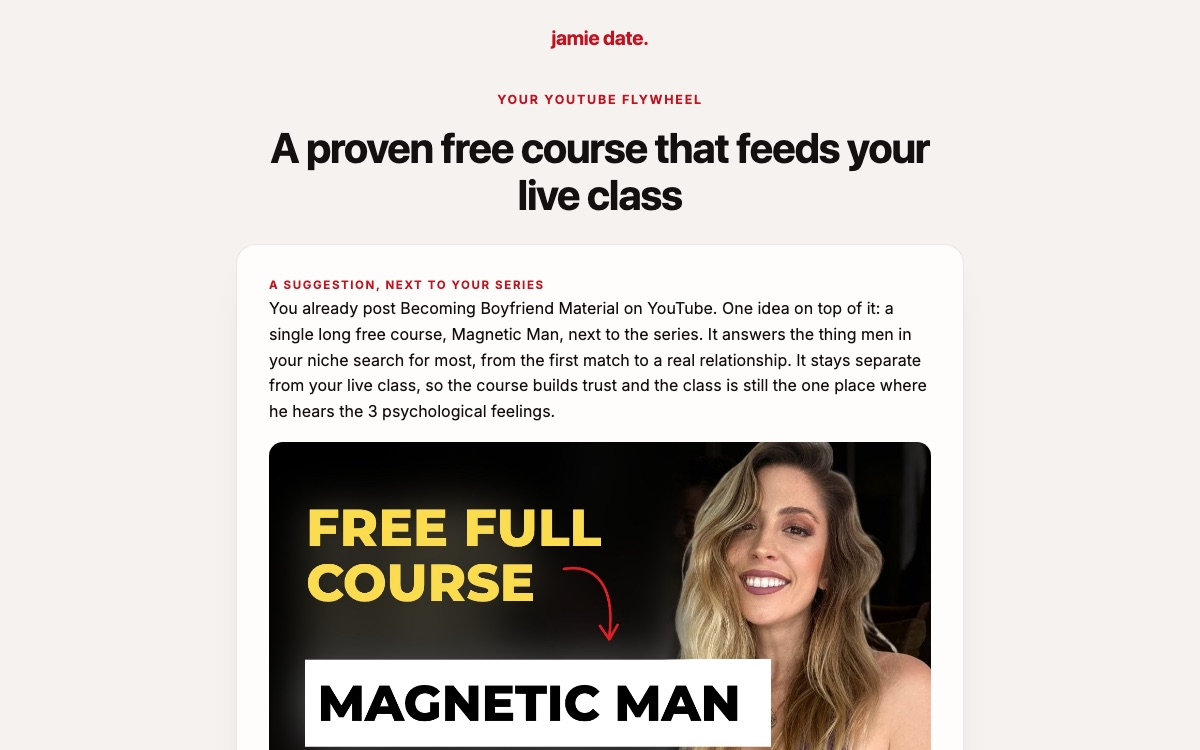
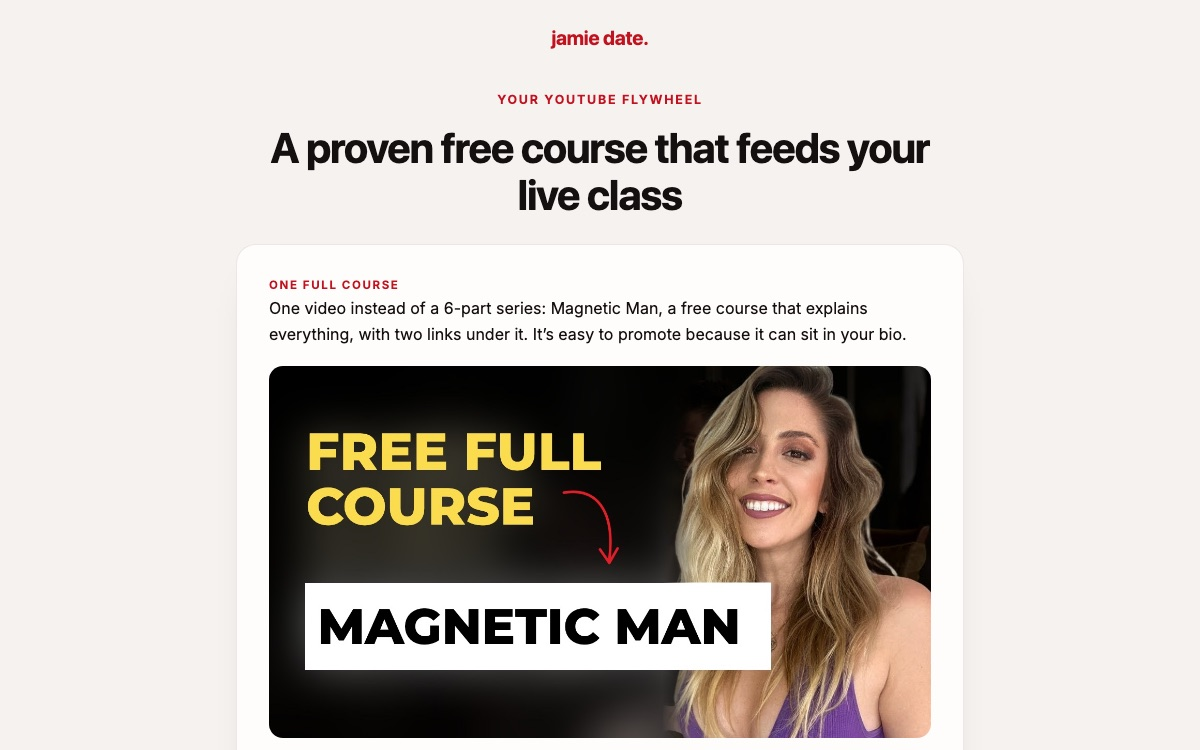
Shorter hub notes, credibility bio line, two-link flywheel

Changed region(s): [[0.2158, 0.368, 0.8017, 1.0]]

diff --git a/index.html b/index.html
@@ -132,51 +132,43 @@
       <div class="container">
         <div class="bridge__head">
           <p class="eyebrow reveal">Before the deliverables</p>
-          <h2 class="section__title bridge__title reveal">Five overlooked things I noticed<br />before I built anything.</h2>
+          <h2 class="section__title bridge__title reveal">Four things I noticed<br />before I built anything.</h2>
         </div>
 
         <article class="beat reveal">
           <div class="beat__num"><span class="beat__idx">01</span><span class="beat__rule"></span></div>
           <div class="beat__copy">
-            <p class="beat__kicker">Your two platforms</p>
-            <h3 class="beat__title">Most of your 174K followers don&rsquo;t know you&rsquo;re on YouTube.</h3>
-            <p class="beat__text">It&rsquo;s the other way around for you. You&rsquo;re big on Instagram, but nothing on your profile points to your YouTube. So I&rsquo;d send your Instagram there: the free course in your bio and on your link page opens on YouTube, and a card on your link page says &ldquo;Join 4,400+ men in my YouTube community&rdquo;. A mention in your Reels helps too. Every man who watches you for 30 minutes on YouTube is far warmer than one who saw a 30-second Reel.</p>
-          </div><div class="beat__aside"><figure class="shot shot--wide"><img src="assets/img/her-profile.jpg" alt="Jamie&rsquo;s Instagram bio" loading="lazy" /><figcaption>Your link in bio today</figcaption></figure></div>
+            <p class="beat__kicker">YouTube</p>
+            <h3 class="beat__title">Most of your followers don&rsquo;t know you&rsquo;re on YouTube.</h3>
+            <p class="beat__text">That&rsquo;s where men watch you for 30 minutes and start to trust you. So I&rsquo;d make sure every follower knows you&rsquo;re there.</p>
+          </div><div class="beat__aside"><figure class="shot shot--wide"><img src="assets/img/her-profile.jpg" alt="Jamie&rsquo;s Instagram bio" loading="lazy" /><figcaption>Your bio today</figcaption></figure></div>
         </article>
         <article class="beat reveal">
           <div class="beat__num"><span class="beat__idx">02</span><span class="beat__rule"></span></div>
           <div class="beat__copy">
-            <p class="beat__kicker">Your funnel</p>
-            <h3 class="beat__title">Webinars are the best-converting funnel right now.</h3>
-            <p class="beat__text">A free live class sells to hundreds of men at once, and walks a good man from &ldquo;why does she keep friend-zoning me?&rdquo; to &ldquo;I need Jamie in my corner&rdquo; before he ever books. Relationship Renaissance 90 is invite-only, so one class a week feeding it could add an <span class="hl">extra $100k a month</span> to your business.</p>
-          </div>
+            <p class="beat__kicker">One full course</p>
+            <h3 class="beat__title">One video instead of a 6-part series.</h3>
+            <p class="beat__text">One free course that explains everything, with two links under it. It&rsquo;s much easier to promote, because it can sit in your bio.</p>
+          </div><div class="beat__aside"><figure class="shot shot--wide"><img src="assets/img/bbm-thumb.jpg" alt="Becoming Boyfriend Material thumbnail" loading="lazy" /><figcaption>Your channel today</figcaption></figure></div>
         </article>
         <article class="beat reveal">
           <div class="beat__num"><span class="beat__idx">03</span><span class="beat__rule"></span></div>
           <div class="beat__copy">
-            <p class="beat__kicker">Your links</p>
-            <h3 class="beat__title">The same two links under each one of your videos.</h3>
-            <p class="beat__text">Each of the six Becoming Boyfriend Material videos ends with one link, your Linktree, so there&rsquo;s no call to book and nothing free. I&rsquo;d put the same two links under every video. One invites the men who aren&rsquo;t ready yet to your free live class: the class and your emails then nurture them, and over time they trust you enough to book. The other is a direct link to book a call, for the men who are ready right now.</p>
-          </div><div class="beat__aside"><figure class="shot shot--wide"><img src="assets/img/bbm-thumb.jpg" alt="Becoming Boyfriend Material thumbnail" loading="lazy" /><figcaption>Your channel today</figcaption></figure></div>
+            <p class="beat__kicker">Two links</p>
+            <h3 class="beat__title">One link for men who aren&rsquo;t ready, one for men who are.</h3>
+            <p class="beat__text">A free guide for the first, so your emails nurture them in the background. A direct link to buy for the men who are ready right now.</p>
+          </div>
         </article>
         <article class="beat reveal">
           <div class="beat__num"><span class="beat__idx">04</span><span class="beat__rule"></span></div>
           <div class="beat__copy">
-            <p class="beat__kicker">Your link in bio</p>
-            <h3 class="beat__title">Six links, but never one clear next step.</h3>
-            <p class="beat__text">Your Linktree opens with a strong line, &ldquo;Stop going to bed alone&rdquo;, and then gives a new follower six choices: a retreat, coaching, a free guide, a profile audit, courses and your book. A man who just found you doesn&rsquo;t know which one is for him, so most tap nothing.</p>
-          </div>
-        </article>
-        <article class="beat reveal">
-          <div class="beat__num"><span class="beat__idx">05</span><span class="beat__rule"></span></div>
-          <div class="beat__copy">
-            <p class="beat__kicker">Your proof</p>
-            <h3 class="beat__title">Your strongest proof is hidden where most men never look.</h3>
-            <p class="beat__text">JP getting second and third dates within weeks, Matthew back out there after his divorce at 59, Anthony saying dating apps went from frustrating to predictable. It all sits on one coaching page, and your Inside the Female Mind class lives in an old highlight.</p>
+            <p class="beat__kicker">Webinars</p>
+            <h3 class="beat__title">Webinars convert better than anything right now.</h3>
+            <p class="beat__text">So I&rsquo;d start running one. One free class a week could add an <span class="hl">extra $100k a month</span>.</p>
           </div>
         </article>
         <div class="bridge__close reveal">
-          <p class="bridge__closing">So I built <span class="hl">one free class</span> that does the selling: a <u class="ul">100-slide presentation</u> on the 3 psychological feelings that make women feel deep, primal attraction, a three-page funnel around it, a profile and pinned post that send men to it, and a YouTube flywheel that keeps them coming, until they <span class="hl-bg">see if they qualify</span> for a call with you or your team.</p>
+          <p class="bridge__closing">So I built it for you: <span class="hl">one free live class</span>, the pages around it, and a free YouTube course with two links under it.</p>
           <a class="btn btn--primary" href="#deliverables">See what&rsquo;s built <span class="arrow-down" aria-hidden="true"></span></a>
         </div>
       </div>
@@ -198,9 +190,9 @@
               <span class="thumb"><span class="thumb__bar"><i></i><i></i><i></i><span class="thumb__url">100 slides · click to advance</span></span><img class="thumb__img" src="assets/img/webinar-preview.jpg?v=5" alt="Your proven webinar presentation preview" loading="lazy" /></span>
               <span class="pcard__body"><span><span class="pcard__kicker">Free live class · 100 slides</span><span class="pcard__title">Your proven webinar presentation</span><span class="pcard__desc">The 3 Psychological Feelings That Make Women Feel Deep, Primal Attraction. Your story, the 3 feelings, real client words, then Relationship Renaissance 90 and &ldquo;See if you qualify&rdquo;.</span></span><span class="pcard__link">Open preview <span class="arrow" aria-hidden="true"></span></span></span>
             </button>
-            <button class="pcard reveal" data-title="Your simple YouTube flywheel" data-embed="youtube-flywheel/?v=10">
-              <span class="thumb"><span class="thumb__bar"><i></i><i></i><i></i><span class="thumb__url">your free full course</span></span><img class="thumb__img" src="assets/img/flywheel-preview.jpg?v=10" alt="Your simple YouTube flywheel preview" loading="lazy" /></span>
-              <span class="pcard__body"><span><span class="pcard__kicker">Free full course on YouTube</span><span class="pcard__title">Your simple YouTube flywheel</span><span class="pcard__desc">A suggestion next to your series: one free full course, Magnetic Man, with the same two links under every video that send men to your live class.</span></span><span class="pcard__link">Open preview <span class="arrow" aria-hidden="true"></span></span></span>
+            <button class="pcard reveal" data-title="Your simple YouTube flywheel" data-embed="youtube-flywheel/?v=11">
+              <span class="thumb"><span class="thumb__bar"><i></i><i></i><i></i><span class="thumb__url">your free full course</span></span><img class="thumb__img" src="assets/img/flywheel-preview.jpg?v=11" alt="Your simple YouTube flywheel preview" loading="lazy" /></span>
+              <span class="pcard__body"><span><span class="pcard__kicker">Free full course on YouTube</span><span class="pcard__title">Your simple YouTube flywheel</span><span class="pcard__desc">One free full course, Magnetic Man, instead of a 6-part series, with two links under it: a free guide and a way to work with you.</span></span><span class="pcard__link">Open preview <span class="arrow" aria-hidden="true"></span></span></span>
             </button>
           </div>
         </div>
@@ -233,8 +225,8 @@
             <span class="group__rule"></span>
           </div>
           <div class="grid grid--3">
-            <button class="pcard reveal" data-title="Your profile, finally upgraded" data-embed="ig-profile/?v=10">
-              <span class="thumb"><span class="thumb__bar"><i></i><i></i><i></i><span class="thumb__url">today vs upgraded</span></span><img class="thumb__img" src="assets/img/igprofile-preview.jpg?v=10" alt="Your profile, finally upgraded preview" loading="lazy" /></span>
+            <button class="pcard reveal" data-title="Your profile, finally upgraded" data-embed="ig-profile/?v=11">
+              <span class="thumb"><span class="thumb__bar"><i></i><i></i><i></i><span class="thumb__url">today vs upgraded</span></span><img class="thumb__img" src="assets/img/igprofile-preview.jpg?v=11" alt="Your profile, finally upgraded preview" loading="lazy" /></span>
               <span class="pcard__body"><span><span class="pcard__kicker">The first thing they see</span><span class="pcard__title">Your profile, finally upgraded</span><span class="pcard__desc">A bio that says the result, shows your proof and sends men to one free class, plus a DM version and new highlight covers.</span></span><span class="pcard__link">Open preview <span class="arrow" aria-hidden="true"></span></span></span>
             </button>
             <button class="pcard reveal" data-title="Your proven pinned post" data-embed="pinned-post/?v=5" data-noanim>

diff --git a/ig-profile/index.html b/ig-profile/index.html
@@ -66,7 +66,7 @@
   <div class="ptop"><b>jamiedate</b><span>&#8942;</span></div>
   <div class="phead"><span class="pav"><img src="../assets/img/profile/pfp.jpg" alt=""></span>
     <div class="pright"><b class="pname">Jamie Date &bull; Men&rsquo;s Dating Coach</b><div class="pstats"><span><b>1,824</b>posts</span><span><b>174K</b>followers</span><span><b>208</b>following</span></div></div></div>
-  <div class="pbio"><p class="pcat">Personal coach</p><p>&#129293; Dating Coach for Good Men Tired of the Friend Zone</p><p>&#127909; YouTube: Becoming Boyfriend Material</p><p>&#128071;&#127996; Watch My FREE Full Course</p><p class="plink">&#128279; linktr.ee/jamiedate</p></div>
+  <div class="pbio"><p class="pcat">Personal coach</p><p>&#129293; Dating Coach for Good Men Tired of the Friend Zone</p><p>&#128250; As seen on ABC News, MTV, A&amp;E &amp; Oxygen</p><p>&#128071;&#127996; Watch My FREE Full Course</p><p class="plink">&#128279; linktr.ee/jamiedate</p></div>
   <div class="pbtn"><span class="fol">Follow</span><span>Message</span></div>
   <div class="hl"><span class="hli"><i style="background:url(../assets/img/profile/hl-free.jpg) center/cover"></i><b>Free course</b></span><span class="hli"><i style="background:url(../assets/img/profile/hl-start.jpg) center/cover"></i><b>Start here</b></span><span class="hli"><i style="background:url(../assets/img/profile/hl0.jpg) center/cover"></i><b>Testimonials</b></span><span class="hli"><i style="background:url(../assets/img/profile/hl1.jpg) center/cover"></i><b>Trolling &#128526;</b></span><span class="hli"><i style="background:url(../assets/img/profile/hl2.jpg) center/cover"></i><b>Appearances</b></span><span class="hli"><i style="background:url(../assets/img/profile/hl3.jpg) center/cover"></i><b>Fan Mail</b></span><span class="hli"><i style="background:url(../assets/img/profile/hl4.jpg) center/cover"></i><b>Ask Me Anyt&hellip;</b></span><span class="hli"><i style="background:url(../assets/img/profile/hl5.jpg) center/cover"></i><b>Courses</b></span></div>
   <div class="ptabs"><span class="on">&#9638;</span><span>&#9654;</span><span>&#9786;</span></div>
@@ -78,7 +78,7 @@
   <div class="ptop"><b>jamiedate</b><span>&#8942;</span></div>
   <div class="phead"><span class="pav"><img src="../assets/img/profile/pfp.jpg" alt=""></span>
     <div class="pright"><b class="pname">Jamie Date &bull; Men&rsquo;s Dating Coach</b><div class="pstats"><span><b>1,824</b>posts</span><span><b>174K</b>followers</span><span><b>208</b>following</span></div></div></div>
-  <div class="pbio"><p class="pcat">Personal coach</p><p>&#129293; Dating Coach for Good Men Tired of the Friend Zone</p><p>&#127909; YouTube: Becoming Boyfriend Material</p><p>&#128172; DM me BOYFRIEND for my FREE Full Course</p></div>
+  <div class="pbio"><p class="pcat">Personal coach</p><p>&#129293; Dating Coach for Good Men Tired of the Friend Zone</p><p>&#128250; As seen on ABC News, MTV, A&amp;E &amp; Oxygen</p><p>&#128172; DM me BOYFRIEND for my FREE Full Course</p></div>
   <div class="pbtn"><span class="fol">Follow</span><span style="background:#c1121f;color:#fff">Message</span></div>
   <div class="hl"><span class="hli"><i style="background:url(../assets/img/profile/hl-free.jpg) center/cover"></i><b>Free course</b></span><span class="hli"><i style="background:url(../assets/img/profile/hl-start.jpg) center/cover"></i><b>Start here</b></span><span class="hli"><i style="background:url(../assets/img/profile/hl0.jpg) center/cover"></i><b>Testimonials</b></span><span class="hli"><i style="background:url(../assets/img/profile/hl1.jpg) center/cover"></i><b>Trolling &#128526;</b></span><span class="hli"><i style="background:url(../assets/img/profile/hl2.jpg) center/cover"></i><b>Appearances</b></span><span class="hli"><i style="background:url(../assets/img/profile/hl3.jpg) center/cover"></i><b>Fan Mail</b></span><span class="hli"><i style="background:url(../assets/img/profile/hl4.jpg) center/cover"></i><b>Ask Me Anyt&hellip;</b></span><span class="hli"><i style="background:url(../assets/img/profile/hl5.jpg) center/cover"></i><b>Courses</b></span></div>
   <div class="ptabs"><span class="on">&#9638;</span><span>&#9654;</span><span>&#9786;</span></div>
@@ -88,7 +88,7 @@
               <div class="feed" style="padding:0;overflow:hidden"><iframe src="../link-in-bio/" title="Link in bio page" style="border:0;width:100%;height:100%;display:block" loading="lazy"></iframe></div>
               <div class="homebar"></div></div></div></div></div></div></div>
       <div class="why">
-        <div><b>The bio top coaches use</b><span>Who you help, where they can watch you, then one free next step. The same three-line shape the biggest coaches for men use, short enough to show in full with no &ldquo;more&rdquo;.</span></div>
+        <div><b>The bio top coaches use</b><span>Who you help, why he should listen, then one free next step. The same three-line shape the biggest coaches for men use, short enough to show in full with no &ldquo;more&rdquo;.</span></div>
         <div><b>A link page in the right order</b><span>Free full course first, then your course, then private coaching for men who are serious. The order the top coaches for men use on their own link pages.</span></div>
         <div><b>One new pinned post</b><span>A text carousel built on the most-liked format in men&rsquo;s dating, ending with &ldquo;Comment the word BOYFRIEND&rdquo;.</span></div>
       </div>

diff --git a/youtube-flywheel/index.html b/youtube-flywheel/index.html
@@ -55,8 +55,8 @@ h2{font:700 clamp(22px,3.6vw,28px)/1.15 SFD,Inter;margin:6px 0 14px;letter-spaci
   </div>
 
   <article class="card">
-    <span class="tag">A suggestion, next to your series</span>
-    <p>You already post Becoming Boyfriend Material on YouTube. One idea on top of it: a single long free course, Magnetic Man, next to the series. It answers the thing men in your niche search for most, from the first match to a real relationship. It stays separate from your live class, so the course builds trust and the class is still the one place where he hears the 3 psychological feelings.</p>
+    <span class="tag">One full course</span>
+    <p>One video instead of a 6-part series: Magnetic Man, a free course that explains everything, with two links under it. It&rsquo;s easy to promote because it can sit in your bio.</p>
     <div class="yt">
       <div class="yt__thumb"><img src="../assets/img/flywheel-thumb.jpg?v=5" alt="Free full course thumbnail" /></div>
       <div class="yt__meta"><img src="../assets/img/profile/pfp.jpg" alt="" /><div><b>Magnetic Man (From First Match to Relationship) | FREE FULL COURSE</b><small>Jamie Date</small></div></div>
@@ -72,9 +72,9 @@ h2{font:700 clamp(22px,3.6vw,28px)/1.15 SFD,Inter;margin:6px 0 14px;letter-spaci
       <div class="arrow">&darr;</div>
       <div class="node node--hub"><b>Your free full course on YouTube</b><small>Magnetic Man</small></div>
       <div class="arrow">&darr;</div>
-      <div class="node node--hub"><b>Your free live class</b><small>The 3 Psychological Feelings That Make Women Feel Deep, Primal Attraction</small></div>
+      <div class="node node--hub"><b>Not ready yet?</b><small>Your free guide, then your emails nurture him in the background</small></div>
       <div class="arrow">&darr;</div>
-      <div class="node"><b>See if you qualify</b><small>The replay page, a short application, then your calendar. Strategy call with you or your team.</small></div>
+      <div class="node"><b>Ready now?</b><small>See if you qualify: a short application, then a call with you or your team.</small></div>
     </div>
   </article>
 
@@ -97,18 +97,18 @@ h2{font:700 clamp(22px,3.6vw,28px)/1.15 SFD,Inter;margin:6px 0 14px;letter-spaci
   <article class="card">
     <span class="tag">Under every video</span>
     <h2>The same two links, under every video</h2>
-    <div class="desc">&#128308; FREE LIVE CLASS: The 3 Psychological Feelings That Make Women Feel Deep, Primal Attraction <span class="ln">[your live class page]</span>
+    <div class="desc">&#127873; FREE GUIDE: Becoming Boyfriend Material <span class="ln">[your free guide page]</span>
 
-&#10024; Ready now? Book a call and see if you qualify for coaching with me
+&#10024; Ready now? See if you qualify for coaching with me
 <span class="ln">[your booking page]</span></div>
-    <p class="muted" style="margin-top:14px">Today each Becoming Boyfriend Material description has one link, your Linktree. Paste these two links under every video instead, old and new. The first is for the men who aren&rsquo;t ready yet: the live class and your emails warm them up until they book. The second is for the men who are ready right now.</p>
+    <p class="muted" style="margin-top:14px">Paste these two links under every video, old and new. The free guide is for men who aren&rsquo;t ready yet, so your emails nurture them in the background. The second is for men ready right now.</p>
   </article>
 
   <article class="card">
     <span class="tag">Pinned comment</span>
     <div class="desc">What&rsquo;s the biggest mistake you&rsquo;ve made on a first date? &#128071;
 
-I&rsquo;m breaking down the 3 psychological feelings that make women feel deep, primal attraction in my free live class: <span class="ln">[your live class page]</span></div>
+Grab my free guide, Becoming Boyfriend Material: <span class="ln">[your free guide page]</span></div>
   </article>
 </main>
 <footer class="brandfoot">jamie date.</footer>
